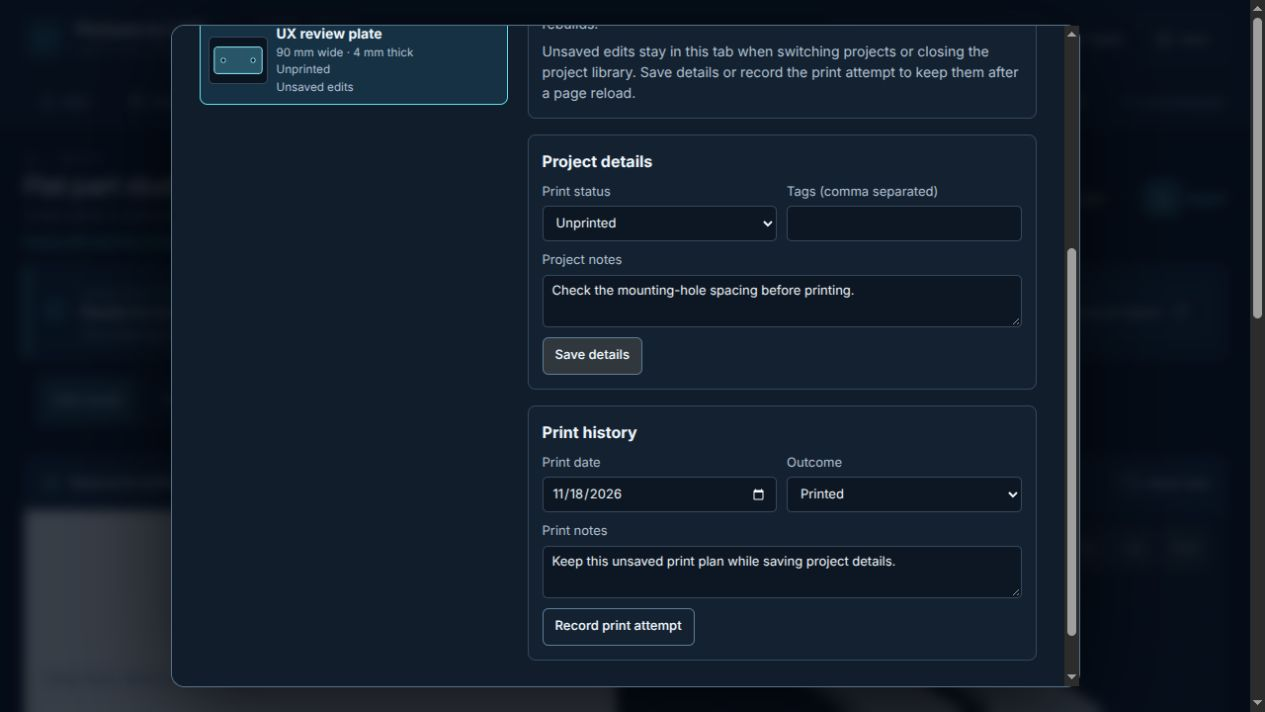
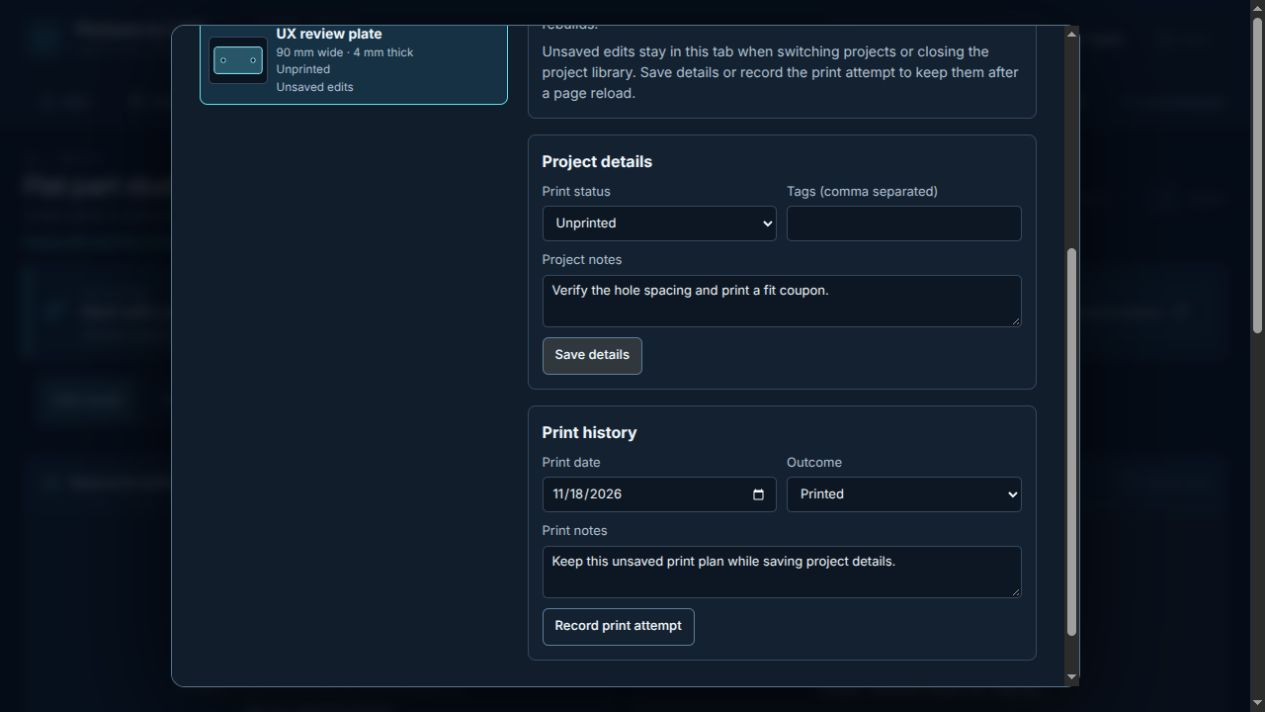
Keep project save submission order across modal reopen

diff --git a/tests/e2e/project-library.spec.ts b/tests/e2e/project-library.spec.ts
@@ -151,22 +151,22 @@ test('unsaved project and print forms survive selection, filtering and modal clo
   await expect(library.getByRole('textbox', { name: 'Print notes', exact: true })).toHaveValue('');
 });
 
-test('a reopened baseline revert survives a save that completes after the newer edit', async ({
-  page,
-}) => {
+test('a reopened baseline save stays ordered behind an older delayed save', async ({ page }) => {
   // Delay one database-open notification before the save creates its transaction.
   // The reopened modal can read the old snapshot while this older save is pending.
   await page.addInitScript(() => {
     const original = IDBFactory.prototype.open;
     IDBFactory.prototype.open = function (name: string, version?: number) {
+      const harness = window as HeldLibraryOpen;
+      let hold = name === 'pictures-to-cad-project-library' && harness.holdNextLibraryOpen;
+      if (hold) harness.holdNextLibraryOpen = false;
       const request =
         version === undefined ? original.call(this, name) : original.call(this, name, version);
       request.addEventListener(
         'success',
         (event) => {
-          const harness = window as HeldLibraryOpen;
-          if (name !== 'pictures-to-cad-project-library' || !harness.holdNextLibraryOpen) return;
-          harness.holdNextLibraryOpen = false;
+          if (!hold) return;
+          hold = false;
           harness.libraryOpenHeld = true;
           event.stopImmediatePropagation();
           harness.releaseLibraryOpen = () => {
@@ -186,9 +186,35 @@ test('a reopened baseline revert survives a save that completes after the newer 
   const openLibrary = page.getByRole('button', { name: 'Project library', exact: true });
   const library = page.getByRole('dialog', { name: 'Project library', exact: true });
   const notes = library.getByRole('textbox', { name: 'Project notes', exact: true });
+  const tags = library.getByRole('textbox', { name: 'Tags (comma separated)', exact: true });
   const save = library.getByRole('button', { name: 'Save details', exact: true });
+  const storedProject = () =>
+    page.evaluate(
+      () =>
+        new Promise<{ notes: string; tags: string[] }>((resolve, reject) => {
+          const request = indexedDB.open('pictures-to-cad-project-library', 1);
+          request.onerror = () => reject(request.error);
+          request.onsuccess = () => {
+            const db = request.result;
+            const transaction = db.transaction('projects', 'readonly');
+            const all = transaction.objectStore('projects').getAll();
+            transaction.oncomplete = () => {
+              db.close();
+              resolve({ notes: all.result[0]?.notes, tags: all.result[0]?.tags });
+            };
+            transaction.onabort = () => {
+              db.close();
+              reject(transaction.error);
+            };
+          };
+        }),
+    );
   await openLibrary.click();
   await library.getByRole('button', { name: 'Save current snapshot', exact: true }).click();
+  await expect(library.getByRole('status')).toHaveText('Project snapshot saved.');
+  // Finish initial loading in a fresh modal so an old list refresh cannot consume the hold.
+  await page.keyboard.press('Escape');
+  await openLibrary.click();
   await notes.fill('Older submitted note');
   await page.evaluate(() => ((window as HeldLibraryOpen).holdNextLibraryOpen = true));
   await save.click();
@@ -196,45 +222,26 @@ test('a reopened baseline revert survives a save that completes after the newer 
     .poll(() => page.evaluate(() => (window as HeldLibraryOpen).libraryOpenHeld))
     .toBe(true);
   try {
+    expect(await storedProject()).toEqual({ notes: '', tags: [] });
     await page.keyboard.press('Escape');
     await openLibrary.click();
     await expect(notes).toHaveValue('Older submitted note');
     await notes.fill('');
     await expect(library.getByText(/^Unsaved edits stay in this tab/)).toBeVisible();
+    await tags.fill('Latest submission');
+    await save.click();
+    await expect(save).toBeDisabled();
+    // A real read establishes a barrier: the queued newer save has not overtaken the hold.
+    expect(await storedProject()).toEqual({ notes: '', tags: [] });
   } finally {
     await page.evaluate(() => (window as HeldLibraryOpen).releaseLibraryOpen?.());
   }
 
-  // Observe the real stored result before checking that the newer empty edit survives refresh.
-  await expect
-    .poll(() =>
-      page.evaluate(
-        () =>
-          new Promise<string>((resolve, reject) => {
-            const request = indexedDB.open('pictures-to-cad-project-library', 1);
-            request.onerror = () => reject(request.error);
-            request.onsuccess = () => {
-              const db = request.result;
-              const transaction = db.transaction('projects', 'readonly');
-              const all = transaction.objectStore('projects').getAll();
-              transaction.oncomplete = () => {
-                db.close();
-                resolve(all.result[0]?.notes);
-              };
-              transaction.onabort = () => {
-                db.close();
-                reject(transaction.error);
-              };
-            };
-          }),
-      ),
-    )
-    .toBe('Older submitted note');
-  await expect(notes).toHaveValue('');
-  await expect(library.getByText(/^Unsaved edits stay in this tab/)).toBeVisible();
-  await save.click();
   await expect(library.getByRole('status')).toHaveText('Project details saved.');
+  await expect.poll(storedProject).toEqual({ notes: '', tags: ['Latest submission'] });
+  await expect(notes).toHaveValue('');
   await page.reload();
   await openLibrary.click();
   await expect(notes).toHaveValue('');
+  await expect(tags).toHaveValue('Latest submission');
 });

diff --git a/tests/unit/keyed-task-queue.test.ts b/tests/unit/keyed-task-queue.test.ts
@@ -1,0 +1,101 @@
+import { test } from 'node:test';
+import assert from 'node:assert/strict';
+import { KeyedTaskQueue } from '../../frontend/src/keyedTaskQueue.ts';
+
+function gate() {
+  let release!: () => void;
+  const promise = new Promise<void>((resolve) => {
+    release = resolve;
+  });
+  return { promise, release };
+}
+
+test('a save delayed before storage opens cannot be overtaken by a later save of the same project', async () => {
+  const queue = new KeyedTaskQueue<number>();
+  const opening = gate();
+  const events: string[] = [];
+  let stored = 'Original';
+  const first = queue.run(7, async () => {
+    events.push('A opening');
+    await opening.promise;
+    stored = 'A';
+    events.push('A committed');
+    return stored;
+  });
+  await Promise.resolve();
+  const second = queue.run(7, () => {
+    events.push('B opening');
+    stored = 'B';
+    events.push('B committed');
+    return stored;
+  });
+  await Promise.resolve();
+  assert.deepEqual(events, ['A opening']);
+  assert.equal(stored, 'Original');
+  opening.release();
+  assert.deepEqual(await Promise.all([first, second]), ['A', 'B']);
+  assert.deepEqual(events, ['A opening', 'A committed', 'B opening', 'B committed']);
+  assert.equal(stored, 'B');
+  assert.equal(queue.pendingKeys, 0);
+});
+
+test('failed saves reject their caller while the next save continues and the key is released', async () => {
+  const queue = new KeyedTaskQueue<number>();
+  const opening = gate();
+  const first = queue.run(7, async () => {
+    await opening.promise;
+    throw new Error('Storage unavailable.');
+  });
+  const rejected = assert.rejects(first, /Storage unavailable/);
+  const second = queue.run(7, () => 'Recovered save.');
+  opening.release();
+  await rejected;
+  assert.equal(await second, 'Recovered save.');
+  assert.equal(queue.pendingKeys, 0);
+  await assert.rejects(
+    queue.run(7, () => {
+      throw new Error('Synchronous failure.');
+    }),
+    /Synchronous failure/,
+  );
+  assert.equal(await queue.run(7, () => 'Still usable.'), 'Still usable.');
+  assert.equal(queue.pendingKeys, 0);
+});
+
+test('different projects can save independently while one storage open is held', async () => {
+  const queue = new KeyedTaskQueue<number>();
+  const opening = gate();
+  let firstCommitted = false;
+  const first = queue.run(7, async () => {
+    await opening.promise;
+    firstCommitted = true;
+  });
+  assert.equal(await queue.run(8, () => 'Other project committed.'), 'Other project committed.');
+  assert.equal(firstCommitted, false);
+  assert.equal(queue.pendingKeys, 1);
+  opening.release();
+  await first;
+  assert.equal(queue.pendingKeys, 0);
+});
+
+test('an older completion cannot remove the tail that keeps subsequent saves in order', async () => {
+  const queue = new KeyedTaskQueue<number>();
+  const writing = gate();
+  const first = queue.run(7, () => 'A');
+  const second = queue.run(7, async () => {
+    await writing.promise;
+    return 'B';
+  });
+  await first;
+  assert.equal(queue.pendingKeys, 1);
+  let thirdStarted = false;
+  const third = queue.run(7, () => {
+    thirdStarted = true;
+    return 'C';
+  });
+  await Promise.resolve();
+  assert.equal(thirdStarted, false);
+  writing.release();
+  assert.deepEqual(await Promise.all([second, third]), ['B', 'C']);
+  assert.equal(queue.pendingKeys, 0);
+});

diff --git a/frontend/src/projectLibrary.ts b/frontend/src/projectLibrary.ts
@@ -1,4 +1,5 @@
 import type { ProjectRecipe } from './types';
+import { KeyedTaskQueue } from './keyedTaskQueue.ts';
 
 export const PRINT_OUTCOMES = ['Printed', 'Failed'] as const;
 export const PRINT_STATUSES = ['Unprinted', 'Queued', 'Printing', ...PRINT_OUTCOMES] as const;
@@ -19,6 +20,8 @@ export type LibraryProject = {
 };
 
 const STORE = 'projects';
+// Keep submission order explicit across modal instances, including delayed storage acquisition.
+const projectUpdates = new KeyedTaskQueue<number>();
 
 function openLibrary(): Promise<IDBDatabase> {
   return new Promise((resolve, reject) => {
@@ -93,26 +96,28 @@ export type ProjectDetailsUpdate = Partial<Pick<LibraryProject, 'status' | 'tags
 export type ProjectUpdate = ProjectDetailsUpdate | { attempt: PrintAttempt };
 
 export function updateLibraryProject(id: number, update: ProjectUpdate) {
-  return transact<LibraryProject | null>('readwrite', (store, setResult) => {
-    const request = store.get(id);
-    request.onsuccess = () => {
-      const current = request.result as LibraryProject | undefined;
-      if (!current) {
-        setResult(null);
-        return;
-      }
-      const updated =
-        'attempt' in update
-          ? {
-              ...current,
-              status: update.attempt.outcome,
-              attempts: [...current.attempts, update.attempt],
-            }
-          : { ...current, ...update };
-      store.put(updated);
-      setResult(updated);
-    };
-  });
+  return projectUpdates.run(id, () =>
+    transact<LibraryProject | null>('readwrite', (store, setResult) => {
+      const request = store.get(id);
+      request.onsuccess = () => {
+        const current = request.result as LibraryProject | undefined;
+        if (!current) {
+          setResult(null);
+          return;
+        }
+        const updated =
+          'attempt' in update
+            ? {
+                ...current,
+                status: update.attempt.outcome,
+                attempts: [...current.attempts, update.attempt],
+              }
+            : { ...current, ...update };
+        store.put(updated);
+        setResult(updated);
+      };
+    }),
+  );
 }
 
 export function removeLibraryProject(id: number) {

diff --git a/frontend/src/keyedTaskQueue.ts b/frontend/src/keyedTaskQueue.ts
@@ -1,0 +1,23 @@
+/** Serialize complete async operations for one key while other keys continue independently. */
+export class KeyedTaskQueue<Key> {
+  private readonly tails = new Map<Key, Promise<void>>();
+
+  get pendingKeys() {
+    return this.tails.size;
+  }
+
+  run<Result>(key: Key, task: () => Promise<Result> | Result): Promise<Result> {
+    const previous = this.tails.get(key) ?? Promise.resolve();
+    const result = previous.then(task);
+    // A rejected operation must not poison the next operation for this key.
+    const settled = result.then(
+      () => {},
+      () => {},
+    );
+    this.tails.set(key, settled);
+    return result.finally(() => {
+      // An older completion must not delete the tail of a newer queued operation.
+      if (this.tails.get(key) === settled) this.tails.delete(key);
+    });
+  }
+}

diff --git a/docs/validation/workspace-reliability.md b/docs/validation/workspace-reliability.md
@@ -7,13 +7,14 @@ Reviewed on 2026-11-18 against merged main `316f1f8149651b4131caa3b49a7055ee8dd5
 - **A second finger could end the first finger's shape drag.** Rejected secondary touches still receive browser pointer lifecycle events. Pointer-up, cancellation and capture-loss handlers now end only the owning pointer's gesture. Activity/unmount cleanup still ends the current gesture. A Chromium native-touch regression adds and lifts a second contact, continues the first drag, then checks one-step undo and redo.
 - **An earlier save could overwrite a newer revert.** While a save was pending, returning notes or print fields to their old loaded defaults removed the draft. Matching pending writes now protect explicit baseline values until a storage read begun after the writes settle confirms the defaults. A reopened Save includes explicitly reverted metadata in its payload. Failed writes preserve edits; confirmed no-op drafts clear after the fresh read.
 - **A-B-A edits could be mistaken for the original submission.** Save completion previously cleared fields by value alone. Each explicit field edit now carries an identity, so a late save only clears the edit it submitted. Identities remain within the bounded tab-local draft entries; no draft text or tokens are persisted.
+- **Save submission order is now explicit across modal instances.** A shared per-project queue covers storage acquisition and transaction completion. Errors release the next save, other projects remain independent, and completed queue entries are removed. The delayed-save browser regression submits the newer baseline revert before releasing the older save, checks storage before release and confirms the latest value after reload.
 - **Two hosted browser checks used stale selectors.** PR #174's workbench run [44404712976](https://github.com/bartytime4life/Pictures-to-3D-CAD-Models/actions/runs/44404712976) passed 141 scenarios and failed two. Its captured project-library state retained the correct notes, but exact label matching also included React's restored textarea text. Accessible textbox names select the fields reliably. The phone check now uses the visible Workspace picker introduced in #174.
 
 The interaction engineer implemented and tested draft/pointer changes and confirmed the A-B-A loss with production helpers. The lead integrator reviewed the asynchronous lifecycle, authored browser regressions and checked the production UI. A separate engineer reviewed the final patch for correctness.
 
 ## Validation
 
-- Frontend unit suite: **68 passed**, including 15 project-draft cases. The eight new draft cases exercise baseline reverts, independent form clearing, failed-write recovery, refresh gaps, overlapping writes, replacement snapshots, explicit write payloads and A-B-A edit identity. Restoring the prior baseline-pruning behavior in a temporary helper copy failed five of the new regressions.
+- Frontend unit suite: **72 passed**, including 15 project-draft cases and four queue cases. The eight new draft cases exercise baseline reverts, independent form clearing, failed-write recovery, refresh gaps, overlapping writes, replacement snapshots, explicit write payloads and A-B-A edit identity. Queue cases cover ordering, failure continuation, independent project IDs and cleanup. Restoring the prior baseline-pruning behavior in a temporary helper copy failed five of the new regressions.
 - Production build, TypeScript, Ruff, Prettier and whitespace checks passed. Browser test discovery loaded all eight scenarios in the three affected browser files without launching a browser.
 - Fresh Codex in-app browser checks used the final production build at `http://127.0.0.1:8138`, with the isolated library/job directories from the earlier review. Project and print notes survived filtering out/back and modal close/reopen. Saving project details retained the unsaved print plan; no physical print was recorded.
 - An ordinary pointer drag changed a blank plate's center X from 0 to 9 mm; one Undo restored 0 and Redo restored 9. Its CAD preview settled at 80 × 50 × 4 mm.
@@ -26,5 +27,7 @@ The interaction engineer implemented and tested draft/pointer changes and confir
 ## Separate validation lanes
 
 The current local browser interface does not support native multi-touch injection. The new native-touch regression and controlled delayed-save browser regression are authored for the repository's hosted Chromium suite; they are not claimed as locally executed. Their hosted result must be checked on the PR head before merge. Local save-race proof comes from the production-helper regressions, including reproductions of the prior loss.
+
+The delayed-success harness deliberately broadens storage scheduling. Native IndexedDB opens use an ordered [connection queue](https://www.w3.org/TR/IndexedDB-3/#connection-queue); the new application queue is explicit protection under delayed completion testing, not evidence that ordinary native opens reorder themselves. The independent review identified this distinction and hardened the harness so an earlier list refresh cannot consume the save hold.
 
 Python, geometry, AI-provider behavior and setup code are unchanged by this follow-up. The earlier 1719-pass local Python result belongs to #174; the new PR's hosted workflow performs its own Python and full browser runs. Native slicer/printer behavior and physical fit remain separate acceptance work.
